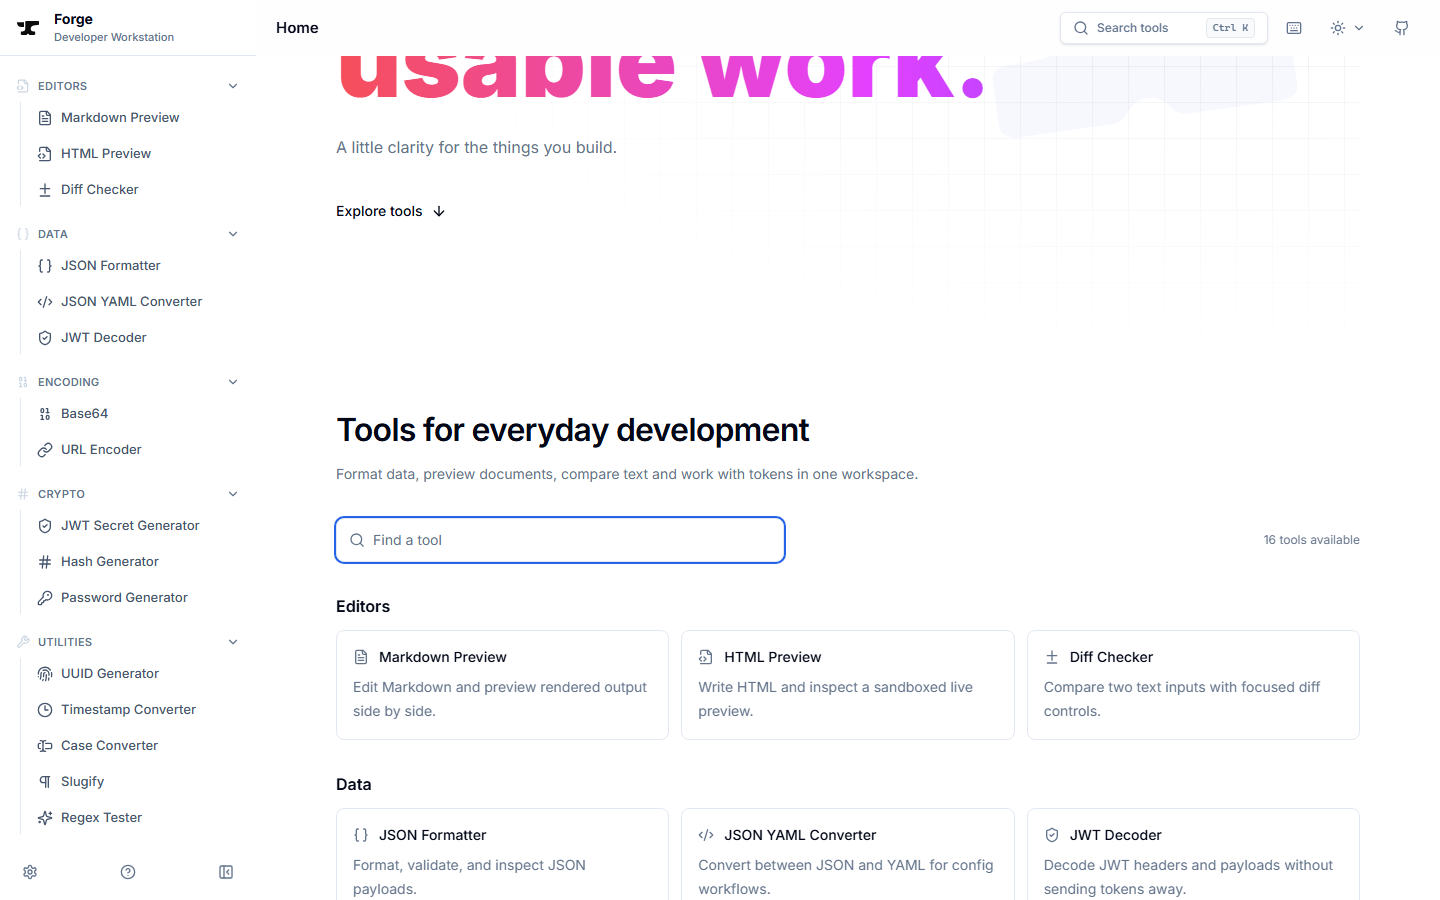
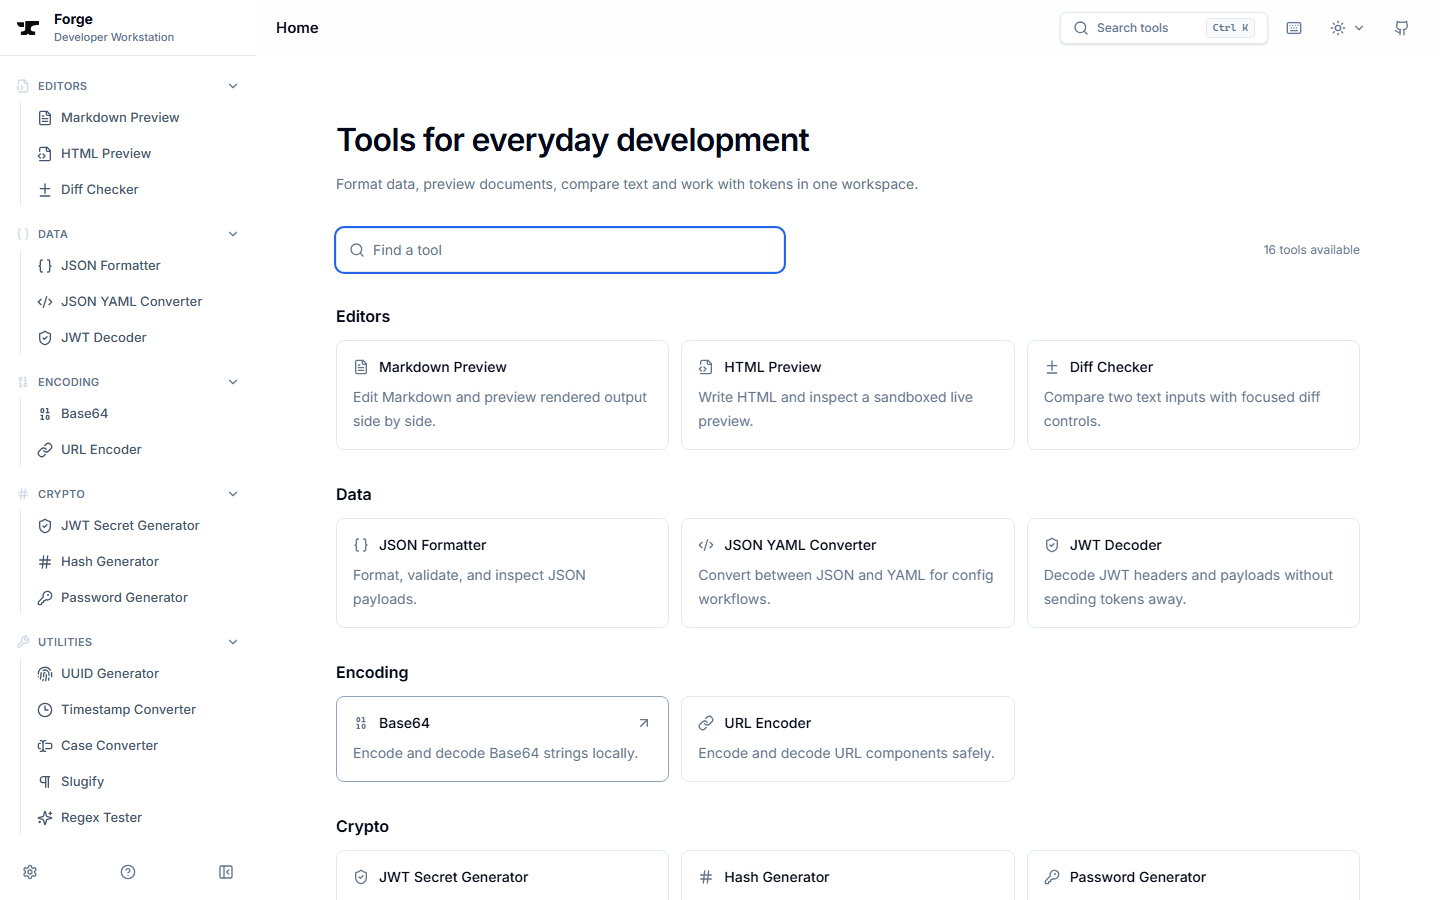
feat(site): add an accessible footer to informational pages

diff --git a/e2e/helper-pages.spec.ts b/e2e/helper-pages.spec.ts
@@ -138,3 +138,110 @@ test("help menu uses local routes while header shortcuts keep the dialog", async
     await expect(headerButton).toBeFocused();
   }
 });
+
+test("informational footers stay in their scroll owner and out of tool workspaces", async ({
+  page,
+}) => {
+  for (const route of [
+    "/",
+    "/settings",
+    "/docs",
+    "/support/ask",
+    "/privacy",
+    "/terms",
+    "/missing-page",
+  ]) {
+    await page.goto(route);
+    const footer = page.getByRole("contentinfo", { name: "Forge footer" });
+    await expect(footer).toHaveCount(1);
+    await footer.evaluate((node) => {
+      let owner = node.parentElement;
+      while (owner && !/auto|scroll/.test(getComputedStyle(owner).overflowY))
+        owner = owner.parentElement;
+      if (owner) owner.scrollTop = owner.scrollHeight;
+    });
+    await expect(footer).toBeInViewport();
+    const contacts = footer.getByRole("navigation", { name: "Maintainer contacts" });
+    await expect(contacts.getByRole("link")).toHaveCount(5);
+    await expect(
+      contacts.getByRole("link", { name: "GitHub profile", exact: true }),
+    ).toHaveAttribute("href", "https://github.com/cuthanhcam");
+    await expect(
+      contacts.getByRole("link", { name: "LinkedIn", exact: true }),
+    ).toHaveAttribute("href", "https://www.linkedin.com/in/cuthanhcam");
+    await expect(
+      contacts.getByRole("link", { name: "Email maintainer", exact: true }),
+    ).toHaveAttribute("href", "mailto:cuthanhcam04@gmail.com");
+    await expect(
+      contacts.getByRole("link", { name: "Facebook", exact: true }),
+    ).toHaveAttribute("href", "https://www.facebook.com/cuthanhcam");
+    await expect(
+      contacts.getByRole("link", { name: "Instagram", exact: true }),
+    ).toHaveAttribute("href", "https://instagram.com/cuthanhcam");
+    expect(
+      await page
+        .locator("header")
+        .first()
+        .evaluate((node) => node.getBoundingClientRect().top),
+    ).toBe(0);
+    expect(
+      await page.evaluate(() => document.documentElement.scrollWidth <= innerWidth),
+    ).toBe(true);
+  }
+  for (const route of [
+    "markdown-preview",
+    "html-preview",
+    "diff-checker",
+    "jwt-decoder",
+  ]) {
+    await page.goto(`/tools/${route}`);
+    await expect(page.getByRole("contentinfo", { name: "Forge footer" })).toHaveCount(0);
+  }
+});
+
+test("policy pages explain actual data boundaries and docs selection stays inside its scroll area", async ({
+  page,
+  isMobile,
+}) => {
+  await page.goto("/privacy");
+  const content = page.getByRole("article");
+  await expect(
+    content.getByRole("heading", { name: "Storage and retention", exact: true }),
+  ).toBeVisible();
+  await expect(
+    content.getByText(/JWT tokens, verification secrets and generated passwords/),
+  ).toBeAttached();
+  await expect(
+    content.getByRole("heading", {
+      name: "Preview documents and network requests",
+      exact: true,
+    }),
+  ).toBeAttached();
+  await page.goto("/terms");
+  await expect(
+    content.getByRole("heading", {
+      name: "Tokens and cryptographic checks",
+      exact: true,
+    }),
+  ).toBeAttached();
+  await expect(
+    content.getByText(/JWT decoding does not authenticate a token/),
+  ).toBeAttached();
+  await expect(
+    content.getByRole("link", { name: "MIT license", exact: true }),
+  ).toHaveAttribute("href", "https://github.com/cuthanhcam/forge/blob/main/LICENSE");
+  if (!isMobile) {
+    await page.goto("/docs");
+    const navigation = page.getByRole("navigation", { name: "Documentation navigation" });
+    for (const name of [/Product docs/, /Guides/]) {
+      const link = navigation.getByRole("link", { name });
+      await link.click();
+      await expect(link).toHaveAttribute("aria-current", "page");
+      const linkBox = (await link.boundingBox())!;
+      const navBox = (await navigation.boundingBox())!;
+      expect(linkBox.x).toBeGreaterThan(navBox.x);
+      expect(linkBox.x + linkBox.width).toBeLessThan(navBox.x + navBox.width);
+    }
+    await page.screenshot({ path: test.info().outputPath("docs-navigation.png") });
+  }
+});

diff --git a/src/shared/components/SiteFooter.tsx b/src/shared/components/SiteFooter.tsx
@@ -1,0 +1,68 @@
+import type { JSX } from "react";
+import { Facebook, Github, Instagram, Linkedin, Mail } from "lucide-react";
+import { Link } from "react-router";
+import { projectLinks } from "@/core/config/project-links";
+import { Tooltip } from "@/shared/ui/tooltip";
+
+const contacts = [
+  { label: "GitHub profile", href: projectLinks.maintainer.github, icon: Github },
+  { label: "LinkedIn", href: projectLinks.maintainer.linkedin, icon: Linkedin },
+  { label: "Email maintainer", href: `mailto:${projectLinks.email}`, icon: Mail },
+  { label: "Facebook", href: projectLinks.maintainer.facebook, icon: Facebook },
+  { label: "Instagram", href: projectLinks.maintainer.instagram, icon: Instagram },
+];
+
+/** Informational pages only: scroll with the page and leave tool workspaces full-height. */
+export function SiteFooter(): JSX.Element {
+  return (
+    <footer
+      role="contentinfo"
+      aria-label="Forge footer"
+      className="mt-10 border-t border-border pb-2 pt-6 text-xs leading-5 text-muted-foreground"
+    >
+      <div className="flex flex-wrap items-start justify-between gap-x-8 gap-y-4">
+        <div className="space-y-1">
+          <p>
+            &copy; {new Date().getFullYear()} cuthanhcam <span aria-hidden="true">·</span>{" "}
+            Forge
+          </p>
+          <p>Independent, open-source developer tools.</p>
+        </div>
+        <nav
+          aria-label="Maintainer contacts"
+          className="flex flex-wrap items-center gap-1"
+        >
+          {contacts.map(({ label, href, icon: Icon }) => (
+            <Tooltip key={label} content={label} side="top">
+              <a
+                aria-label={label}
+                href={href}
+                target={href.startsWith("mailto:") ? undefined : "_blank"}
+                rel={href.startsWith("mailto:") ? undefined : "noopener noreferrer"}
+                className="inline-flex h-9 w-9 items-center justify-center rounded-md transition-colors hover:bg-slate-100 hover:text-foreground focus-visible:outline-none focus-visible:ring-2 focus-visible:ring-inset focus-visible:ring-accent-600 motion-reduce:transition-none"
+              >
+                <Icon aria-hidden="true" className="h-4 w-4" />
+              </a>
+            </Tooltip>
+          ))}
+        </nav>
+      </div>
+      <nav aria-label="Forge information" className="mt-4 flex flex-wrap gap-x-4 gap-y-2">
+        {[
+          { to: "/docs", label: "Documentation" },
+          { to: "/support/ask", label: "Support" },
+          { to: "/privacy", label: "Privacy" },
+          { to: "/terms", label: "Terms" },
+        ].map(({ to, label }) => (
+          <Link
+            key={to}
+            to={to}
+            className="rounded underline-offset-4 hover:text-foreground hover:underline focus-visible:outline-none focus-visible:ring-2 focus-visible:ring-accent-600"
+          >
+            {label}
+          </Link>
+        ))}
+      </nav>
+    </footer>
+  );
+}

diff --git a/src/pages/home/HomePage.tsx b/src/pages/home/HomePage.tsx
@@ -1,6 +1,7 @@
+import { SiteFooter } from "@/shared/components/SiteFooter";
 import { Tooltip } from "@/shared/ui/tooltip";
 import { useMemo, useRef, useState, type JSX } from "react";
-import { ArrowDown, ArrowUpRight, Search, ShieldCheck, X } from "lucide-react";
+import { ArrowDown, ArrowUpRight, Search, X } from "lucide-react";
 import { Link } from "react-router";
 import { toolCategoryDefinitions } from "@/core/registry/tool.categories";
 import { toolRegistry } from "@/core/registry/tool.registry";
@@ -207,32 +208,7 @@ export function HomePage(): JSX.Element {
             ) : null}
           </div>
         </section>
-        <footer className="mt-10 flex flex-wrap items-center justify-between gap-4 border-t border-border pt-5 text-xs leading-5 text-muted-foreground">
-          <p className="flex items-center gap-2">
-            <ShieldCheck aria-hidden="true" className="h-4 w-4 shrink-0" />
-            Core tools run in your browser.
-          </p>
-          <nav aria-label="Forge information" className="flex flex-wrap gap-4">
-            <Link
-              className="rounded underline-offset-4 hover:underline focus-visible:outline-none focus-visible:ring-2 focus-visible:ring-accent-600"
-              to="/docs"
-            >
-              Documentation
-            </Link>
-            <Link
-              className="rounded underline-offset-4 hover:underline focus-visible:outline-none focus-visible:ring-2 focus-visible:ring-accent-600"
-              to="/privacy"
-            >
-              Privacy
-            </Link>
-            <Link
-              className="rounded underline-offset-4 hover:underline focus-visible:outline-none focus-visible:ring-2 focus-visible:ring-accent-600"
-              to="/terms"
-            >
-              Terms
-            </Link>
-          </nav>
-        </footer>
+        <SiteFooter />
       </div>
     </main>
   );

diff --git a/src/pages/legal/LegalPage.tsx b/src/pages/legal/LegalPage.tsx
@@ -24,7 +24,10 @@ export function LegalPage(): JSX.Element {
       title={title}
     >
       <div className="grid gap-8 lg:grid-cols-[minmax(0,1fr)_16rem]">
-        <article className="rounded-lg border border-slate-200 bg-white px-6 py-7 shadow-sm shadow-slate-950/[0.03] md:px-9 md:py-9">
+        <section
+          aria-label={title}
+          className="rounded-lg border border-slate-200 bg-white px-6 py-7 shadow-sm shadow-slate-950/[0.03] md:px-9 md:py-9"
+        >
           <div className="flex items-center gap-3 border-b border-slate-200 pb-5">
             <div className="flex h-10 w-10 shrink-0 items-center justify-center rounded-md bg-slate-100 text-slate-600">
               {isTerms ? (
@@ -44,7 +47,7 @@ export function LegalPage(): JSX.Element {
           <div className="mt-7">
             <DocsMarkdown markdown={markdown} />
           </div>
-        </article>
+        </section>
 
         <aside className="lg:sticky lg:top-5 lg:self-start">
           <div className="rounded-lg border border-slate-200 bg-white p-5 shadow-sm shadow-slate-950/[0.03]">

diff --git a/src/pages/docs/DocsPage.tsx b/src/pages/docs/DocsPage.tsx
@@ -1,3 +1,4 @@
+import { SiteFooter } from "@/shared/components/SiteFooter";
 import { useRef } from "react";
 import type { JSX } from "react";
 import { BookOpen, ChevronRight, Keyboard, Route } from "lucide-react";
@@ -126,6 +127,7 @@ export function DocsPage(): JSX.Element {
               <DocsMarkdown markdown={page.markdown} />
             </div>
           </div>
+          <SiteFooter />
         </section>
 
         <aside className="scrollbar-forge hidden min-h-0 overflow-y-auto border-l border-slate-200 pl-4 pt-5 xl:block">

diff --git a/src/core/config/project-links.ts b/src/core/config/project-links.ts
@@ -4,6 +4,12 @@ export const projectLinks = {
   issues: "https://github.com/cuthanhcam/forge/issues",
   reportIssue: "/support/issue",
   email: "cuthanhcam04@gmail.com",
+  maintainer: {
+    github: "https://github.com/cuthanhcam",
+    linkedin: "https://www.linkedin.com/in/cuthanhcam",
+    facebook: "https://www.facebook.com/cuthanhcam",
+    instagram: "https://instagram.com/cuthanhcam",
+  },
   sponsors: "https://github.com/sponsors/cuthanhcam",
   kofi: "https://ko-fi.com/cuthanhcam",
 } as const;

diff --git a/src/pages/support/SupportPage.tsx b/src/pages/support/SupportPage.tsx
@@ -1,3 +1,4 @@
+import { SiteFooter } from "@/shared/components/SiteFooter";
 import { projectLinks } from "@/core/config/project-links";
 import { HelperPageHeader } from "@/shared/components/HelperPageHeader";
 import type { JSX } from "react";
@@ -238,6 +239,7 @@ export function SupportPage(): JSX.Element {
             </section>
           </div>
         </section>
+        <SiteFooter />
       </div>
     </main>
   );

diff --git a/src/layouts/MainLayout.tsx b/src/layouts/MainLayout.tsx
@@ -1,3 +1,4 @@
+import { SiteFooter } from "@/shared/components/SiteFooter";
 import { HelperPageHeader } from "@/shared/components/HelperPageHeader";
 import type { JSX, ReactNode } from "react";
 
@@ -21,6 +22,7 @@ export function MainLayout({
           <HelperPageHeader eyebrow={eyebrow} title={title} subtitle={subtitle} />
         </div>
         {children}
+        <SiteFooter />
       </div>
     </main>
   );

diff --git a/docs/development/design-language.md b/docs/development/design-language.md
@@ -24,18 +24,18 @@ colored pane headers, uppercase micro-labels everywhere and cards inside cards.
 
 ## Common standards to establish
 
-| Area | Proposed rule |
-| --- | --- |
-| Color | One blue identity: #2563EB solid actions and #1D4ED8 hover in both themes. Text/soft selection shades retain the same hue and adjust brightness for contrast. Neutral surfaces; green/amber/red communicate status. JWT segment colors label document parts, not application actions. |
-| Typography | Inter for UI/prose; shared monospace for source/results. 14px/20px reading labels, 13px/24px code, 12px/16px metadata, 18-24px semibold page headings. Sentence case. Avoid tiny all-caps control groups. |
-| Spacing | 4/8/12/16/24/32px scale. Related controls stay together; separate task groups with space before adding borders or panels. |
-| Shape | 8px control radius, 12px pane/menu radius, thin neutral borders. Pills only for truly segmented modes/status, not every control. Reserve shadows for floating layers. |
-| Buttons | 36px normal controls, 32px dense controls, at least 44px touch targets where practical. One primary task action per tool. Icon-only actions need a tooltip, accessible name and visible focus. Rare actions move to a labelled menu. |
-| Icons | Lucide, 16px and a consistent stroke weight (target 1.75). 20px only where hierarchy requires it. No mixed emoji/icon styles in controls. |
-| State | Define default, hover, pressed, focus, disabled, loading, success and error for every primitive in both themes. Selection survives hover. Touch does not inherit sticky mouse hover. |
-| Panes | Neutral pane chrome, obvious title, local Copy/Expand actions, readable content. Shared split/mode controls; resizing must retain source, selection and scroll position. |
-| Feedback | Inline validation near input; brief copy feedback with a polite status; actionable failure. Never display or transmit secret contents in telemetry or status messages. |
-| Sliders | Native interaction, visible value and correctly positioned ticks. Linear by default; JWT secret explicitly anchors 32/256/512 so 256 is centered. Logical keyboard increments and announced units must match displayed values. No thumb geometry animation or output reflow under a drag. Add numeric entry where exact configuration is important. |
+| Area       | Proposed rule                                                                                                                                                                                                                                                                                                                                       |
+| ---------- | --------------------------------------------------------------------------------------------------------------------------------------------------------------------------------------------------------------------------------------------------------------------------------------------------------------------------------------------------- |
+| Color      | One blue identity: #2563EB solid actions and #1D4ED8 hover in both themes. Text/soft selection shades retain the same hue and adjust brightness for contrast. Neutral surfaces; green/amber/red communicate status. JWT segment colors label document parts, not application actions.                                                               |
+| Typography | Inter for UI/prose; shared monospace for source/results. 14px/20px reading labels, 13px/24px code, 12px/16px metadata, 18-24px semibold page headings. Sentence case. Avoid tiny all-caps control groups.                                                                                                                                           |
+| Spacing    | 4/8/12/16/24/32px scale. Related controls stay together; separate task groups with space before adding borders or panels.                                                                                                                                                                                                                           |
+| Shape      | 8px control radius, 12px pane/menu radius, thin neutral borders. Pills only for truly segmented modes/status, not every control. Reserve shadows for floating layers.                                                                                                                                                                               |
+| Buttons    | 36px normal controls, 32px dense controls, at least 44px touch targets where practical. One primary task action per tool. Icon-only actions need a tooltip, accessible name and visible focus. Rare actions move to a labelled menu.                                                                                                                |
+| Icons      | Lucide, 16px and a consistent stroke weight (target 1.75). 20px only where hierarchy requires it. No mixed emoji/icon styles in controls.                                                                                                                                                                                                           |
+| State      | Define default, hover, pressed, focus, disabled, loading, success and error for every primitive in both themes. Selection survives hover. Touch does not inherit sticky mouse hover.                                                                                                                                                                |
+| Panes      | Neutral pane chrome, obvious title, local Copy/Expand actions, readable content. Shared split/mode controls; resizing must retain source, selection and scroll position.                                                                                                                                                                            |
+| Feedback   | Inline validation near input; brief copy feedback with a polite status; actionable failure. Never display or transmit secret contents in telemetry or status messages.                                                                                                                                                                              |
+| Sliders    | Native interaction, visible value and correctly positioned ticks. Linear by default; JWT secret explicitly anchors 32/256/512 so 256 is centered. Logical keyboard increments and announced units must match displayed values. No thumb geometry animation or output reflow under a drag. Add numeric entry where exact configuration is important. |
 
 ## Task organization
 
@@ -78,19 +78,19 @@ the layout changes below remain planned.
 ## Small implementation branches
 
 - [ ] `feat/design-foundations`: document final tokens and a component/state gallery;
-  agree button, segmented-control, field, pane, badge, menu and empty/error patterns.
+      agree button, segmented-control, field, pane, badge, menu and empty/error patterns.
 - [ ] `feat/jwt-workbench-layout`: implement the pilot above with before/after
-  desktop/phone screenshots and a visible task hierarchy. Preserve all current modes.
+      desktop/phone screenshots and a visible task hierarchy. Preserve all current modes.
 - [ ] `feat/preview-toolbar-hierarchy`: align Markdown/HTML modes, primary actions,
-  local output actions and Options. Retain line numbers, Mermaid and resizing.
+      local output actions and Options. Retain line numbers, Mermaid and resizing.
 - [ ] `feat/generator-control-layout`: consolidate secret/password/UUID configuration;
-  retain readable generated output, presets, precise values and consistent sliders.
+      retain readable generated output, presets, precise values and consistent sliders.
 - [ ] `feat/data-workbench-layouts`: migrate JSON, JSON/YAML, Diff, Base64, URL and Hash
-  to the common panes/actions, with enough editor space at narrow/short sizes.
+      to the common panes/actions, with enough editor space at narrow/short sizes.
 - [ ] `feat/text-utility-layouts`: simplify Case Converter, Slugify, Regex and Timestamp
-  results/metrics, labels and settings; keep copy/download nearby.
+      results/metrics, labels and settings; keep copy/download nearby.
 - [ ] `feat/workbench-onboarding`: concise first-use guidance and explicit examples;
-  test discoverability with new users before adding feature tours.
+      test discoverability with new users before adding feature tours.
 
 Deliver one branch at a time. Establish primitives before migrating every screen.
 Do not combine parser, cryptographic or storage rewrites with visual changes.
@@ -113,3 +113,18 @@ main. Keep [the tool audit](tool-ux-audit.md) and this plan updated as tasks lan
 
 See [range control behavior](range-controls.md) for the implemented scales,
 keyboard rules and native-input constraints.
+
+## Informational footer proposal
+
+Use one shared footer on Home, Docs, Support, Settings, Privacy, Terms and the
+not-found page. It lives at the end of each page's own scroll owner, never fixed
+above tool editors. Docs keeps it in the reader column so the document outline
+and navigation remain independently reachable.
+
+The project-first treatment uses a quiet top divider, copyright/maintainer name,
+short OSS description, five accessible contact icons and local information links.
+GitHub, LinkedIn and email appear first; Facebook and Instagram follow. Keep
+icons monochrome, with theme-aware hover/focus and tooltips. External links use
+noopener/noreferrer and no embedded social feeds. Narrow layouts wrap naturally.
+This is the initial reviewable proposal; avoid a large marketing footer in the
+workbench and do not add it to registered tool routes.

diff --git a/CHANGELOG.md b/CHANGELOG.md
@@ -17,6 +17,8 @@ development work and are not a claim that a tagged release has shipped.
 ### Improved
 
 - Compact diagram controls, themed outline tooltips and smooth tab-rail collapse.
+- Shared informational-page footer with accessible maintainer contact links.
+- In-app Privacy/Terms rendered from maintained Markdown policies.
 - Consistent helper-page brand treatment and redacted support-report guidance.
 - Subtle drafting-grid background on the Home signature.
 - Local support/help routing and shared icon tooltips across navigation/header.
